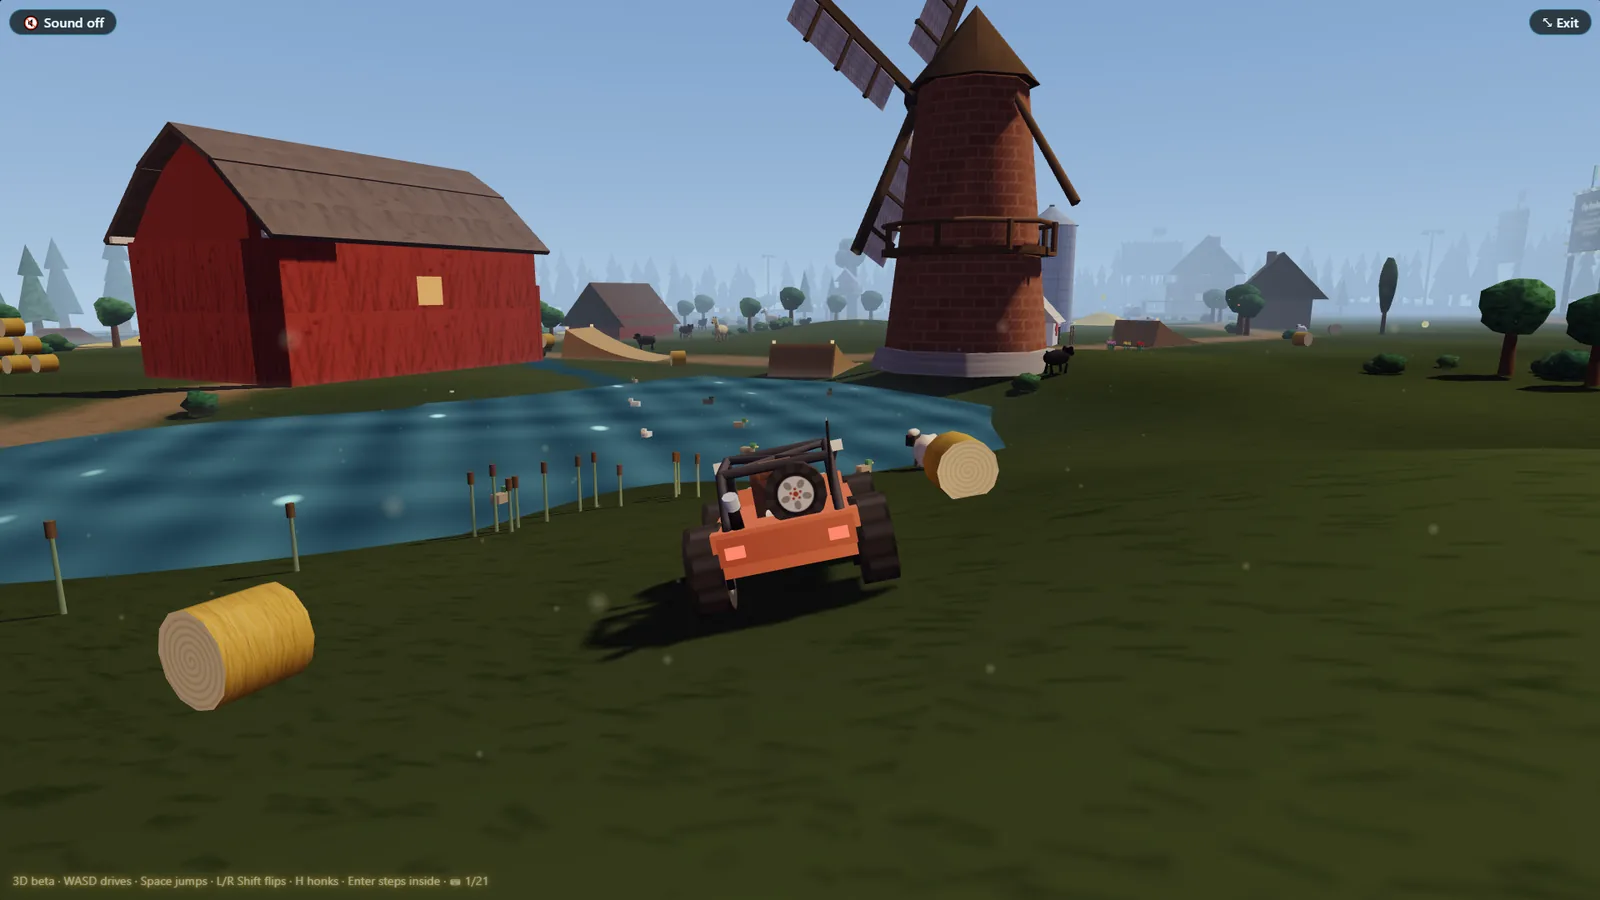
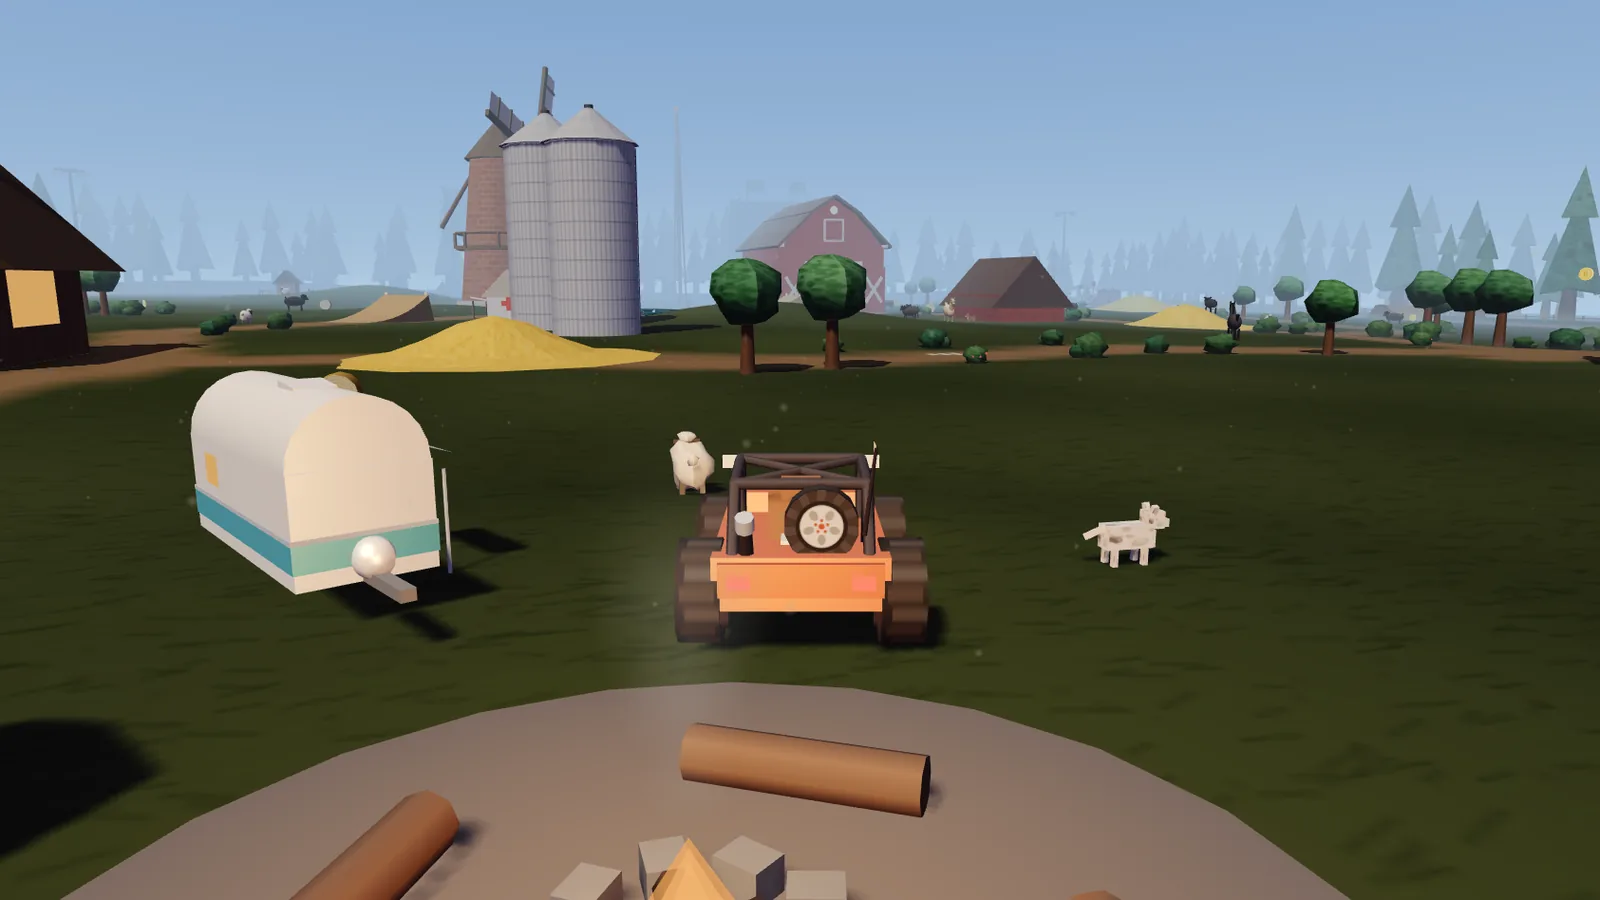
projects

diff --git a/public/projects.html b/public/projects.html
@@ -269,7 +269,7 @@
 
       <figure class="shot">
         <img src="/assets/img/back-quarter-3d.webp" width="1600" height="900" loading="lazy" decoding="async"
-             alt="A low-polygon farmyard in daylight: a red gambrel barn, a brick windmill and grain bin, a pond with ducks, round hay bales, and an orange roll-caged buggy parked on the grass in the foreground.">
+             alt="A low-polygon farmyard in daylight, seen from beside a campfire ring: an orange roll-caged buggy with a spare wheel on the back, a white camper trailer, a sheep and a spotted dog on the grass, and beyond them a brick windmill, twin grain bins, a red gambrel barn and a line of spruce.">
         <figcaption>
           The 3D build, mid-afternoon. The same quarter section as the painted map, modelled and lit,
           with a day and night cycle running over it.

diff --git a/handoff-012.md b/handoff-012.md
@@ -131,16 +131,14 @@ Confirmed; stop re-litigating it.
 ### COPY
 | # | Item | Notes |
 |---|---|---|
-| C-2 | Graph demo copy unread by Thomas | The demo block, the figure caption and the four-sites briefs are mine. |
-| C-7 | **The Back Quarter and Desk copy unread by Thomas** | Especially the childhood paragraph — it is his life on a hiring page, and the facts came from his own published prose, not from him directly. |
+| C-7 | **The Back Quarter and Desk copy — live, unread by Thomas** | Both blocks are serving on tc-ventures.ca/projects (checked 2026-09-21). Put in front of him 2026-09-21; waiting on his read. |
 | C-9 | **`page-thomas.php` ~2010: "I couldn't get past my kitchen manager"** | Reads oddly now that he was the kitchen manager from ~2006. It may mean the senior manager above him. His prose and his call — flag it, do not rewrite it. |
 | C-11 | **Education, settled by Thomas 2026-09-20** | Four academic years at GPRC (now Northwestern Polytechnic), fall 1999 to spring 2003: **B.Sc. Pre-Pharmacy credits, 1999–2002** (three academic years), then **Power Engineering 4th Class and Class 3B plus Gas Plant Operations Levels I and II, 2002–2003**. Journeyman Chef, Red Seal, SAIT, 2012. The rebuilt .docx carries exactly this. `resume/resume-source.html` already has the B.Sc. span right; what it lacks is the Power Engineering dates, Class 3B and the college's name (see C-8 on the render path). |
 
 ### PROJECTS
 | # | Item | Notes |
 |---|---|---|
-| P-4 | Better first figure for The Desk | The monitor is the proof that the desk *is* the menu, and the current crop leaves it out because its contents rows name the children. A frame with the monitor showing the arcade, the cursor-trail drawer or the screensaver would swap straight in. |
-| P-5 | The Back Quarter still may want reshooting | The project figure is a daytime frame and still reads true, but a fresh one framed away from the treehouses is worth taking. |
+| P-4 | Better first figure for The Desk | The monitor is the proof that the desk *is* the menu. **A 2026-09-21 screenshot was not usable:** the contents list on the monitor names the children ("Patience, Daniel, and Faith", "Faith's Capybara Clicker"). Needs a frame with the monitor showing the arcade, the cursor-trail drawer or the screensaver — anything but the contents. |
 | P-6 | A fourth project? | Nothing is queued — and per the "show finished work" rule, nothing goes up until it is done. |
 
 ### GRAPH
@@ -152,13 +150,11 @@ Confirmed; stop re-litigating it.
 | # | Item | Notes |
 |---|---|---|
 | A-1 | **Code pass done 2026-09-21; human checks left** | axe-core (WCAG 2.2 AA + best practice) on all five pages in light and dark: **0 violations**. Tab order, skip link, landmarks, `aria-current`, focus rings and reduced motion all checked and fine. What is left needs a person: one real screen-reader run (NVDA + Firefox or Chrome) through Projects and the live graph, and A-2. |
-| A-2 | **The served résumé PDF is untagged** | No structure tree, no document language, and its title is `Microsoft Word - Thomas_Cheesman_Resume_1`, so a screen reader reads it as an unstructured print. Thomas re-exports from Word: File → Info → set Title to `Thomas Cheesman — Résumé`; then File → Save As → PDF → Options → tick **Document structure tags for accessibility** (not Print to PDF). Replace `public/assets/Thomas-Cheesman-Resume.pdf`. |
 
 ### INFRA
 | # | Item | Notes |
 |---|---|---|
 | INFRA-4 | Permanent email undecided | `thomas@tc-ventures.ca` works; he wants a non-general address within weeks. |
-| INFRA-5 | Leftovers in the **other** repos | This repo is clean. Still open: Reports Clustering `dist-wp/`, and the orphaned `index-ev_2RCV6.js` under the theme's `assets/report-graph/assets/` (2.4 MB, tracked, never fetched). Both can now be deleted with permission rather than quarantined. |
 | INFRA-6 | Dead lander CSS | The lander block in `public/assets/style.css` (from line 670) is unused and harmless; kept so restoring the page would be a file move. Delete it if still unused by mid-October 2026. |
 
 ### DOMAIN
@@ -166,7 +162,7 @@ Confirmed; stop re-litigating it.
 |---|---|---|
 | D-1 | WordPress.com still claims the domain | Harmless; detach when convenient. |
 | D-2 | WP.com plan auto-renew | Do not cancel without confirming DNS for the live sites is unaffected. |
-| D-3 | **Professional Email expiry ~2026-10-08** | Put to Thomas 2026-09-19; **he deferred the decision.** Raised again 2026-09-21. Decide before 8 October. |
+| D-3 | **Professional Email renewal — Thomas said renew (2026-09-21)** | It is subscription 27350377, CA$48/yr, **on the gpresidentialsociety.wordpress.com site**, auto-renew off, expires 2026-10-08. Renewal checkout link given to him: `https://wordpress.com/checkout/renew/27350377`. Not paid until he completes it — confirm before 8 October. |
 
 ### OTHER REPOS
 | # | Item | Notes |
@@ -178,11 +174,11 @@ Confirmed; stop re-litigating it.
 | O-7 | Children's names in the Back Quarter world | The 3D build signs the three treehouses with the kids' first names, against OD-1 in that theme's own spec, on a public indexed homepage. **Raised 2026-09-19; Thomas ruled: leave them.** Recorded so nobody "fixes" it. They stay off this site regardless. |
 | O-8 | **thomascheesman.ca's own open items live in `V0.42.md`** in `tc-ventures-child-theme` | Two worth knowing here: `three-r128.min.js` is idle-loaded for every visitor including phones that now get the Painted Map, and the mouse wheel over a live stage does not scroll the page. |
 | O-10 | **bareyourrare.org and thomascheesman.ca were moved behind Cloudflare on 2026-09-20** | Both were dropping connections from non-browser clients before HTTP — every Hostinger-hosted site on the account did, while Cloudflare-hosted tc-ventures.ca answered fine. Hostinger's own CDN is *inactive* on bareyourrare.org and gpresidentialsociety.com, so that was not the cause; the filtering is upstream, at the shared-hosting network layer, and nothing in hPanel touches it. Both zones now sit on `eoin`/`hazel.ns.cloudflare.com`, SSL **Full (strict)**, with Search/Agent/Training bot policies set to Allow. Mail records (MX, SPF, DMARC, DKIM) are DNS-only on both; bareyourrare.org's DKIM TXT had to be rebuilt by hand because Cloudflare's scanner skipped it. thomascheesman.ca's apex is a flattened CNAME to `thomascheesman.ca.cdn.hstgr.net` — Hostinger's CDN *is* active on that one, so it now has **three cache layers** (Cloudflare, Hostinger CDN, LiteSpeed). When markup there looks stale, purge all three. **gpresidentialsociety.com was not moved**: its domain is external, on `ns1/ns2.infotechdomains.com`, and Thomas does not control that account. |
-| O-11 | **bareyourrare.org crawl audit — mostly written, not deployed** | Full audit: `Claude outputs/byr-crawl-audit.md`. **Written to disk 2026-09-21, in `bareyr/`, not deployed:** (a) new `inc/guide-schema.php` emits a `MedicalWebPage` on each of the five guides with `author` (Thomas, as on the visible bylines), `lastReviewed`, `about`, publisher, dates; review dates now come from one function, `byr_guide_review_date()` in `inc/review-date.php`, which the visible "Last reviewed" line also reads; (b) the theme's own `BreadcrumbList` hooks (B11) removed from `functions.php` — Rank Math's, which has an `@id`, stays; (d) meta-description fallbacks for `/privacy/` and `/terms/` in new `inc/head-extras.php`, only used while the Rank Math field is empty or under 90 characters; (f) `llms.txt` linked from the head and named in the generated `robots.txt` (same file). All PHP lints clean. (e) needed nothing: the hero image already serves `alt=""`. **Still open:** (c) the `/poems/` vs `/category/poems/` collision — needs Thomas's call (rename the category slug to `poetry`, or noindex it); (g) page weight. After deploy: purge caches, then check one guide's source for the `MedicalWebPage` block and a single `BreadcrumbList`, and fetch `/robots.txt`. |
+| O-11 | **bareyourrare.org crawl audit — mostly written, not deployed** | Full audit: `Claude outputs/byr-crawl-audit.md`. **Written to disk 2026-09-21, in `bareyr/`, not deployed:** (a) new `inc/guide-schema.php` emits a `MedicalWebPage` on each of the five guides with `author` (Thomas, as on the visible bylines), `lastReviewed`, `about`, publisher, dates; review dates now come from one function, `byr_guide_review_date()` in `inc/review-date.php`, which the visible "Last reviewed" line also reads; (b) the theme's own `BreadcrumbList` hooks (B11) removed from `functions.php` — Rank Math's, which has an `@id`, stays; (d) meta-description fallbacks for `/privacy/` and `/terms/` in new `inc/head-extras.php`, only used while the Rank Math field is empty or under 90 characters; (f) `llms.txt` linked from the head and named in the generated `robots.txt` (same file). All PHP lints clean. (e) needed nothing: the hero image already serves `alt=""`. (c) resolved without a decision: the audit was wrong to call `/category/poems/` poetry — it is an empty category (one unpublished post) serving a "can't find" page; `inc/head-extras.php` now noindexes any category archive with nothing published. **Still open:** (g) page weight. After deploy: purge caches, then check one guide's source for the `MedicalWebPage` block and a single `BreadcrumbList`, and fetch `/robots.txt`. |
 | O-12 | **GPRS work has its own handoff** | Board reports, the fundraising drafts, the Cloudflare zone for gpresidentialsociety.com, SPF and Trevor: `GPRS Organization/00 Working Notes/gprs-handoff-001.md`. Not tracked here. |
 | O-9 | **`page-hcs.php` edit is undeployed** | The C-5 rewrite is on disk in the theme repo only. It also has not been read back by Thomas. |
 
-**Closed this session:** C-8 (`resume-source.html` now mirrors the Word file; renders to two letter pages, no lander), G-8 (keyboard path into the 3D scene).
+**Closed this session:** C-2 (graph demo copy — Thomas: "ok"), A-2 (Thomas ruled: keep his own Print-to-PDF export; the résumé's home is `My Files\Family & Personal\resume\`, and the served PDF is byte-identical to `Thomas Cheesman Resume Sept 2026.pdf` there), INFRA-5 (`Reports Clustering\dist-wp\` and the theme's `index-ev_2RCV6.js` deleted with his OK; `dist-wp-2\` left alone), P-5 (new Back Quarter figure: his screenshot, cropped clear of the HUD's "3D beta" line and the toast, alt text rewritten), C-8 (`resume-source.html` now mirrors the Word file; renders to two letter pages, no lander), G-8 (keyboard path into the 3D scene).
 
 ## 5. HOW TO WRITE THE NEXT HANDOFF
 
@@ -243,6 +239,6 @@ In order:
    and bareyourrare.org (O-11), purges BYR's caches, and the next agent verifies
    both live.
 2. **Thomas reads the rewritten `page-hcs.php` paragraph**, then deploys it (O-9), and reads C-7.
-3. **O-11c:** his call on the POEMS collision.
-4. **A-2:** re-export the résumé PDF tagged, with a title.
-5. **D-3 before 8 October.**
+3. **Thomas reads C-7** (live on Projects).
+4. **D-3:** confirm the renewal went through before 8 October.
+5. **P-4:** a desk screenshot with the monitor off the contents page.
